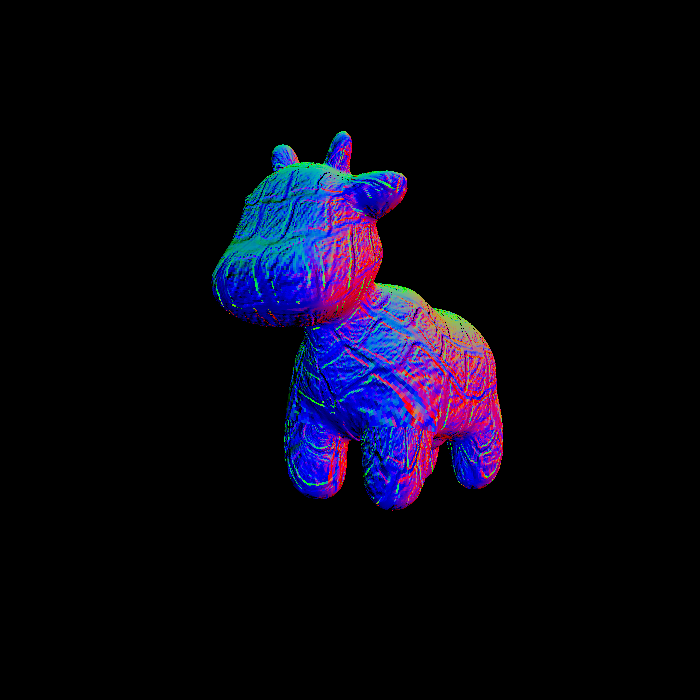
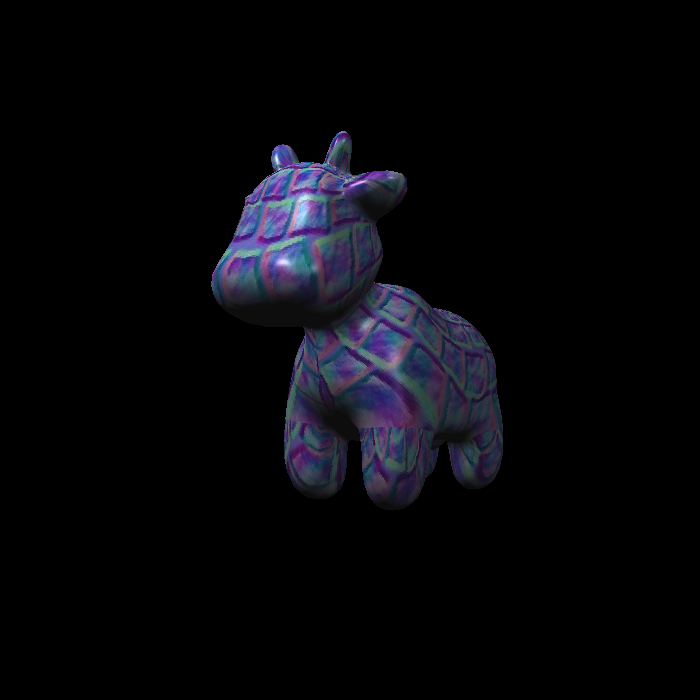
hw3 finished

Changed region(s): [[0.3, 0.18, 0.72, 0.75]]

diff --git a/Assignment3/main.cpp b/Assignment3/main.cpp
@@ -8,6 +8,8 @@
 #include "Texture.hpp"
 #include "OBJ_Loader.h"
 
+bool BILINEAR = true;
+
 Eigen::Matrix4f get_view_matrix(Eigen::Vector3f eye_pos)
 {
     Eigen::Matrix4f view = Eigen::Matrix4f::Identity();
@@ -108,7 +110,13 @@ Eigen::Vector3f texture_fragment_shader(const fragment_shader_payload& payload)
     if (payload.texture)
     {
         // TODO: Get the texture value at the texture coordinates of the current fragment
-		return_color = payload.texture->getColor(payload.tex_coords.x(), payload.tex_coords.y());
+        if (BILINEAR) {
+            return_color = payload.texture->getColorBilinear(payload.tex_coords.x(), payload.tex_coords.y());
+        }
+        else {
+            return_color = payload.texture->getColor(payload.tex_coords.x(), payload.tex_coords.y());
+        }
+		
 
     }
     Eigen::Vector3f texture_color;
@@ -365,7 +373,7 @@ int main(int argc, const char** argv)
     auto texture_path = "hmap.jpg";
     r.set_texture(Texture(obj_path + texture_path));
 
-    std::function<Eigen::Vector3f(fragment_shader_payload)> active_shader = bump_fragment_shader;
+    std::function<Eigen::Vector3f(fragment_shader_payload)> active_shader = texture_fragment_shader;
 
     if (argc >= 2)
     {

diff --git a/Assignment3/Texture.hpp b/Assignment3/Texture.hpp
@@ -32,5 +32,29 @@ public:
         return Eigen::Vector3f(color[0], color[1], color[2]);
     }
 
+    Eigen::Vector3f getColorBilinear(float u, float v) 
+    {
+        u = std::max(0.0f, std::min(1.0f, u));
+        v = std::max(0.0f, std::min(1.0f, v));
+        auto u_img = u * width;
+        auto v_img = (1 - v) * height;
+        int bl_u = int(u_img);
+        int bl_v = int(v_img);
+        int tl_u = bl_u;
+        int tl_v = bl_v + 1;
+        int br_u = bl_u + 1;
+        int br_v = bl_v;
+        int tr_u = br_u;
+		int tr_v = tl_v;
+        auto color_bl = image_data.at<cv::Vec3b>(bl_v, bl_u);
+        auto color_tl = image_data.at<cv::Vec3b>(tl_v, tl_u);
+        auto color_br = image_data.at<cv::Vec3b>(br_v, br_u);
+        auto color_tr = image_data.at<cv::Vec3b>(tr_v, tr_u);
+        float s = u_img - bl_u;
+        float t = v_img - bl_v;
+        auto color = (1 - s) * (1 - t) * color_bl + s * (1 - t) * color_br + (1 - s) * t * color_tl + s * t * color_tr;
+        return Eigen::Vector3f(color[0], color[1], color[2]);
+    }
+
 };
 #endif //RASTERIZER_TEXTURE_H

diff --git a/README.md b/README.md
@@ -346,7 +346,51 @@ Eigen::Vector3f texture_fragment_shader(const fragment_shader_payload& payload)
 }
 ```
 
+
+
 <img src=".\MDImages\texture.png" alt="texture" style="zoom:50%;" />
+
+### Bilinear Interpolation 双线性插值
+
+```c++
+Eigen::Vector3f getColor(float u, float v)
+{
+    u = std::max(0.0f, std::min(1.0f, u));
+    v = std::max(0.0f, std::min(1.0f, v));
+    auto u_img = u * width;
+    auto v_img = (1 - v) * height;
+    auto color = image_data.at<cv::Vec3b>(v_img, u_img);
+    return Eigen::Vector3f(color[0], color[1], color[2]);
+}
+
+Eigen::Vector3f getColorBilinear(float u, float v) 
+{
+    u = std::max(0.0f, std::min(1.0f, u));
+    v = std::max(0.0f, std::min(1.0f, v));
+    auto u_img = u * width;
+    auto v_img = (1 - v) * height;
+    int bl_u = int(u_img);
+    int bl_v = int(v_img);
+    int tl_u = bl_u;
+    int tl_v = bl_v + 1;
+    int br_u = bl_u + 1;
+    int br_v = bl_v;
+    int tr_u = br_u;
+	int tr_v = tl_v;
+    auto color_bl = image_data.at<cv::Vec3b>(bl_v, bl_u);
+    auto color_tl = image_data.at<cv::Vec3b>(tl_v, tl_u);
+    auto color_br = image_data.at<cv::Vec3b>(br_v, br_u);
+    auto color_tr = image_data.at<cv::Vec3b>(tr_v, tr_u);
+    float s = u_img - bl_u;
+    float t = v_img - bl_v;
+    auto color = (1 - s) * (1 - t) * color_bl + s * (1 - t) * color_br + (1 - s) * t * color_tl + s * t * color_tr;
+    return Eigen::Vector3f(color[0], color[1], color[2]);
+}
+```
+
+<img src=".\MDImages\textureBilinear.png" alt="texture" style="zoom:50%;" />
+
+边界处锯齿得到明显改善（如鼻孔）
 
 ### Bump Fragement Shader 凹凸贴图
 
